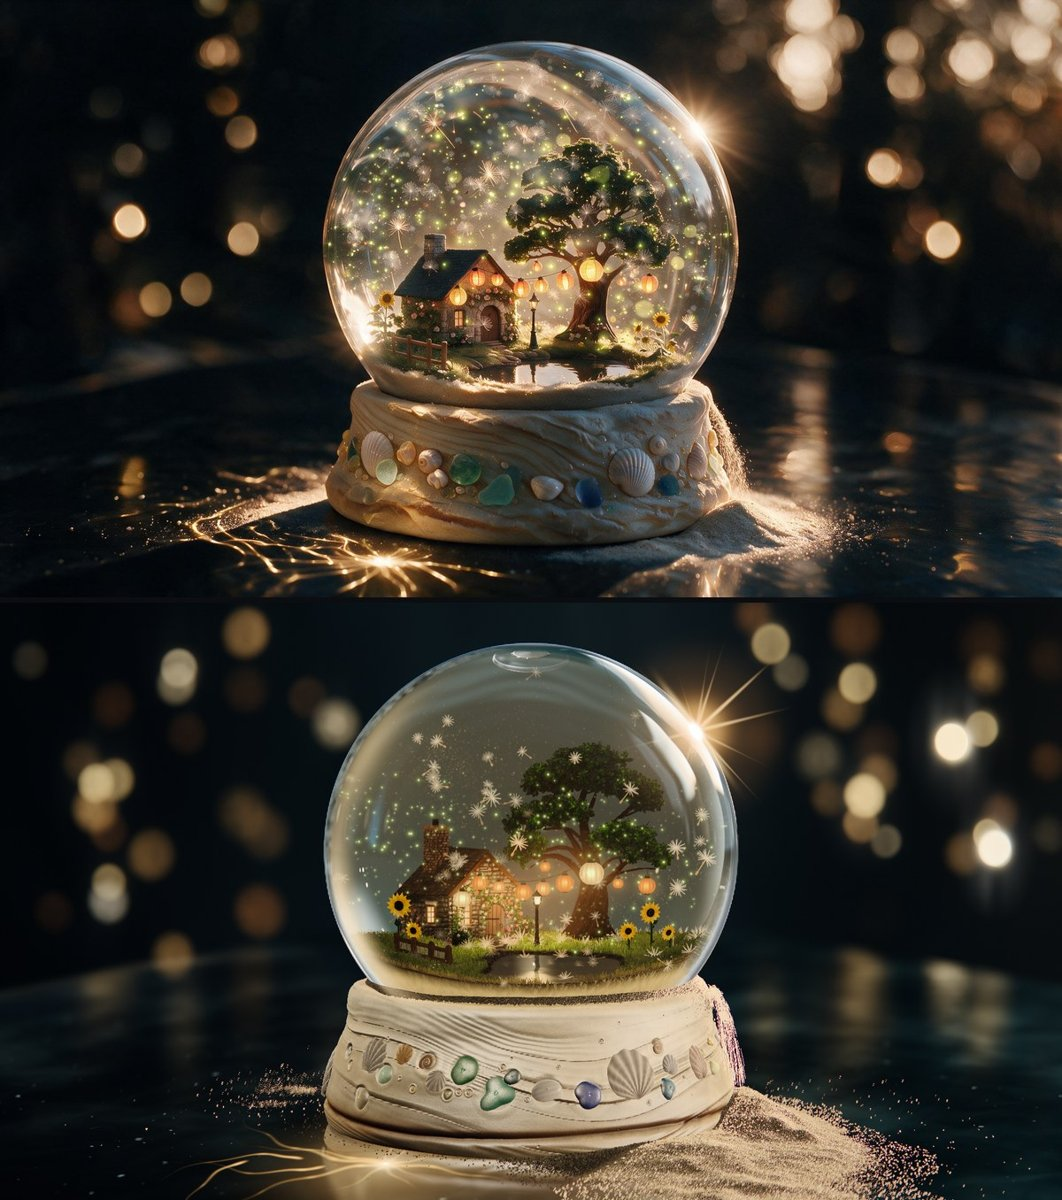
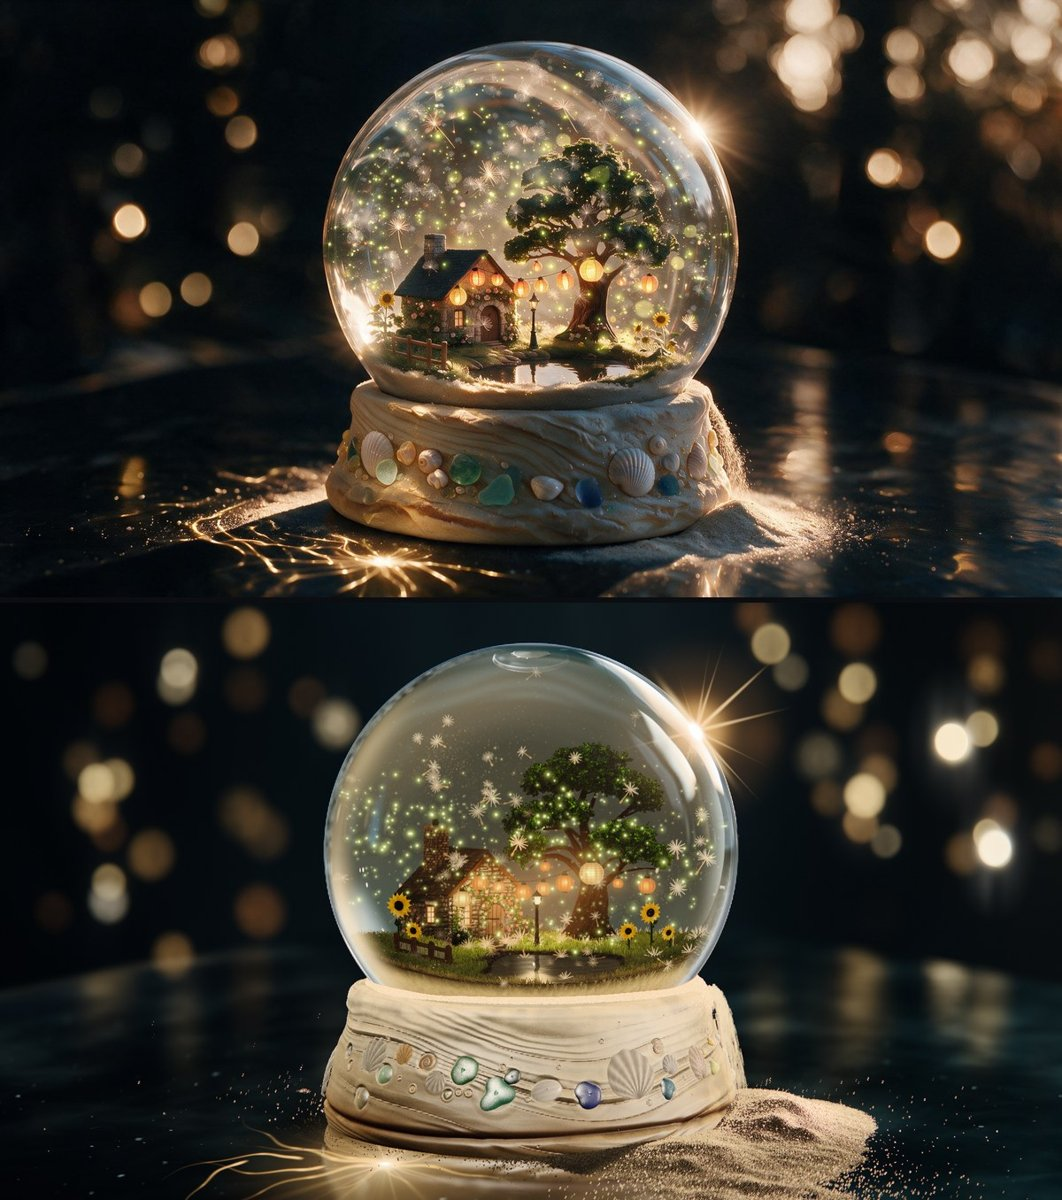
Looks: summer rest and landed pairs, pool, landing sheet at 2ec5d25; handover notes

diff --git a/HANDOVER.md b/HANDOVER.md
@@ -1,0 +1,60 @@
+# Handover: summer_air (summer's glass dressing, veil, light and storm)
+
+Written for someone who has never seen this work. Branch `agent/p4-summer_air`; pictures on `agent/p4-summer_air-looks`.
+
+## Handover: my files
+
+- `assets-src/refrig/summer.json`: lays the build over the approved image for `npm run fit -- --season summer`.
+- `src/seasons/summer/glass.ts`: parts `glass-dressing-summer`: the sun flare, the glow on the far wall of the glass, the pool of light on the slab.
+- `src/seasons/summer/rig.ts`: part `light-summer`: key, rim, sky, ground, fill, card.
+- `src/seasons/summer/backdrop.ts`: the discs' colours, the room, the floor.
+- `src/seasons/summer/veil.ts`: part `veil-summer` and the colours of `firefly`, `seed`, `mote`.
+- `src/particles/engine/kinds.ts`: only the rows `seed` and `firefly` (the row `mote` is `spring_air`'s; I never changed it).
+- No `assets-src/dressing-summer/` folder exists: nothing of mine is a built asset.
+
+## Make targets
+
+None. Everything of mine is drawn in the shader. `ASSETS.md` rows: none. My parts ship 0 MiB. They add 3 quads (flare, wall glow, pool): 3 draw calls, 6 triangles.
+`main` now carries the built assets of every season, so after merging `origin/main` only `npm run build` is needed before a render.
+
+## What is still wrong, worst first (picture that shows it)
+
+1. Storm at the landing is dimmer than approved and its lower left is a flat pale bank (`02-landed-pair.jpg`, `04-landing-sheet.jpg`). Glass centre, approved | build: 179,147,107 | 113,94,58. The bank is the shared veil's (`src/core/chunks/veil.ts`, `uVeilBank`), its amount follows my `density`. The streaks are `kinds_builder`'s drawing; they got much better with its push fc18a80 (60 % of seeds as long fine streaks).
+2. The top of the glass lacks the approved bright warm reflections (`01-rest-pair.jpg`; box "glass upper-mid" 183,154,122 | 119,118,101). A broad sheen there (`look.wall.top` 0.5) read as fog, so it stays at 0.15.
+3. The discs upper right are dimmer than approved (box "disc cluster UR" median 178,143,108 | 34,29,22). I own only their colours (lifted per level in `backdrop.ts`); where they stand is the shared `src/scene/backdrop.ts`.
+4. Fireflies sit low: the shared engine's `nest()` puts their homes within 45 mm of the ground; the approved image has points up to the crown of the glass.
+5. Whole seeds at rest are whiter and sharper than the approved soft tufts (drawing: `kinds_builder`).
+6. The pool lies partly on the mirror image of the base in the slab, which is paler than the approved dark slab there (`03-pool.jpg`); its veins are fewer and smoother than the approved fine branching ones (a chosen middle between the approved image and the brief's "broad bands, not thin veins").
+7. The pool's swing after the landing is small (`look.pool.swing` 1, 1.7 Hz, decays in 1.1 s); not tuned further.
+8. The flare's spikes are longer and thinner than approved's compact star (`look.flare.rays` 2.6, `spikes` 9).
+
+## Constants a successor should know
+
+- Refrig: approved glass circle centre (1408.1, 656.3) px, radius 550.1 px (winter: (1411.5, 653.4), 553.9); `summer.json` = distanceMm 618.7, aimHeightMm 64.27. hd px = 0.682 x approved px; about 9.2 approved px per mm.
+- Rig: key [1,0.8,0.56] x 1.05 from [250,230,-400] (target [0,70,0]); rim [1,0.82,0.6] x 0.8 from [-330,250,-280]; sky [0.2,0.17,0.13]; ground [0.07,0.055,0.04]; fill 0.7; card [1,0.8,0.58] x 0.55 from [500,140,60], wrap 0.2, specular 0.4, inside 0.3.
+- Backdrop: ember, amber, gold, pale, cream with lifts 0.9, 1.1, 1.5, 2, 2.4 (a colour times its lift; the colour multiplies the disc's energy, so values above 1 brighten it); room [0.003,0.0048,0.0052]; floor [0.0036,0.0056,0.0072].
+- Veil: tint [1,0.77,0.5], density 0.2, rest -0.0011. Why negative: the shared veil keeps `density x 0.04 x 0.2` of haze while most of the pool is afloat (`slowHaze`, `veilSettle` in `src/core/chunks/veil.ts`), and summer's 40000 motes never land, so the haze never clears. `rest` is added to it, so a negative `rest` of 0.75 of that share takes it back. If you change `density`, set `rest = -0.0054 x density`. Tint above 1 also brightens the haze at rest; it does little for the storm.
+- Particle colours: firefly [0.85,1,0.26] glow 5; seed [1.15,1.08,0.94] glow 0 (glow does nothing for a seed; its brightness is its colour times the scene's light); mote [0.7,0.54,0.3] glow 0.25.
+- Rows: seed `floats: 0.006` (whole seeds afloat at rest: about 54, plus the drawing's own 1.2 %), `sizeMm: [0.69, 1.39]` (the drawing multiplies by 3.6: 2.5 to 5 mm), `liftMmS: [18, 60]`; firefly `sizeMm: [0.3, 0.7]`, `reachMm: 9` (16 fails `tests/sim.test.ts` "starts the whole pool inside the glass").
+- Counts stay firefly 700, seed 9000, mote 40000 (told `/root` at stage 1).
+- Flare: a billboard of 30 mm half size at the key's mirror point on the sphere, additive, no depth test, renderOrder 14. Kindle is `uFlareSun.w`: 0 while the globe is held after the swap, rises in 0.22 s from the landing with an overshoot of 0.55 that decays in 0.3 s.
+- Wall glow: billboard over the globe's disc, renderOrder 13, `look.wall` gain 0.42, crescent from 0.8 to 0.94 of the radius on the limb away from the sun.
+- Pool: flat additive mesh 900 x 900 mm at y 0.3 mm, renderOrder 1 (`summer_base` keeps its sand above it: sheet 0.5 mm renderOrder 3, grains 4; its `slab.ts` adds my `surfacePool()` to the floor group). Centre = the globe + 76 mm down the light's way + 2.7 mm across. It moves with the globe's x, z, lift (2.2 mm per mm) and tilt.
+- All three shaders `discard` when `uDiag != 0`: added light would corrupt the diagnostic views.
+
+## Tools I left in `out/work/v/` (not committed)
+
+- `go.sh <n>`: build, fit at rest and at landed, the boxes, crops `c<n>.jpg` (approved rest, build rest, approved shake, build landed) and `p<n>.jpg` (pool, approved above).
+- `box.py [--shake]`: median and 90th percentile RGB of fixed boxes in approved pixels, approved beside build.
+
+## Tried and dropped
+
+- Veil density 0.22 with `rest` 0: washed the picture at rest (glass upper left 126 against 96).
+- Mote colour [0.85,0.66,0.36] glow 0.3: washed the picture at rest.
+- Veil tint x 1.4: brightened the haze at rest, not the storm.
+- Seed glow 0.2 to 0.5: no change (unused by the seed's drawing).
+- Wall glow wide (from 0.6, gain 0.55): read as milk on the left of the glass; narrowed to the limb.
+- Top sheen 0.5: read as fog.
+- Card x 0.9: right for the first dark base, too flat on the cream base now on `main`; cut to 0.55.
+- Pool as wide concentric rings (first version): unlike the approved knot with veins.
+- Seed `liftMmS[0]` 10: moved winter through the engine's shared lowest lift; `kinds_builder` has since made that number per season (fc18a80).
